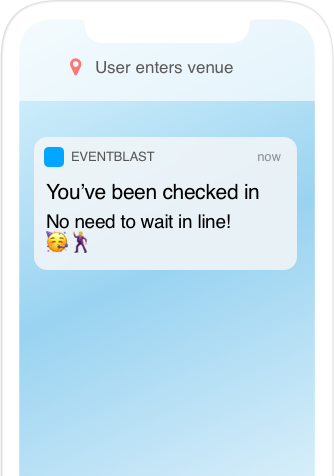
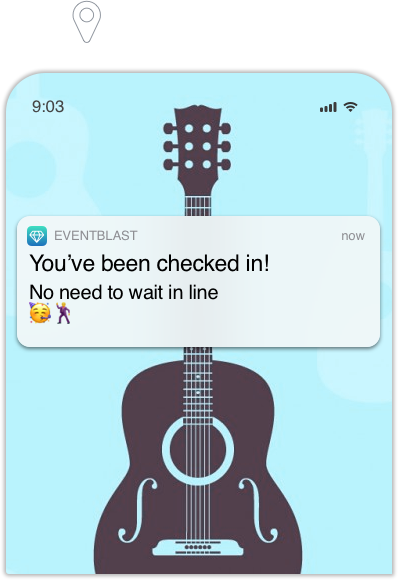
Switched up images in geofencing section and added "integrations"

diff --git a/index.html b/index.html
@@ -4,7 +4,7 @@
 <head>
   <meta charset="utf-8">
   <meta name="viewport" content="width=device-width, initial-scale=1, shrink-to-fit=no">
-  
+
   <!-- Primary Meta Tags -->
   <title>SpotSense - Geofencing for iOS</title>
   <meta name="title" content="SpotSense - Geofencing for iOS">
@@ -124,7 +124,7 @@
         <div class="container shape-container d-flex align-items-center" style="padding-top: 20px">
           <div class="row justify-content-between align-items-center">
             <div class="col-lg-5 mb-5 mb-lg-0">
-              <h1 class="text-white">Make places part of your app experience</h1>
+              <h1 class="text-white">Add powerful geofences to your mobile app, quickly</h1>
               <p class="lead text-white mt-4">
                   SpotSense helps you leverage location context to build a more personalized app user experience.<br><br>
                   The best part? It takes less than 5 minutes.
@@ -151,8 +151,8 @@
       <div class="container">
         <div style="margin-bottom: 30px;" class="row text-left">
           <div class="col-md-8">
-            <!-- <h1 class="mb-2 text-left">Create 🔥 app experiences through location context</h1> -->
-            <h1 class="mb-3 text-left">Does your mobile app fit into the everyday life of your users?</h1>
+
+            <h1 class="mb-3 text-left">Interact with your users, even if you're not on their front page</h1>
             <h5 class="mb-4 text-left text-muted">Your mobile app can easily get lost in the sea of applications on a user's device. Cut through that noise by providing your users with contextually driven experiences based on their location. </h5>
           </div>
           <div class="col-md-4">
@@ -165,7 +165,7 @@
     <!-- Geofencing tools that... -->
     <section class="section pb-0 gradient-bg">
       <div class="container">
-        <h1 class="text-left text-white">Geofencing tools that drive engagement </h1>
+        <h1 class="text-left text-white">Drive app engagement with location awareness</h1>
         <div class="row">
           <div class="col-md-8 col-12">
             <p class="lead mb-0 text-left text-white">Use location to send contextual push notifications, build relevant in-app experiences, power automatic check in, and more</p>
@@ -275,10 +275,10 @@
     <!-- Location Analytics -->
     <section class="section">
         <div class="container">
-          <h1 class="text-left">Location analytics for data driven decisions</h1>
+          <h1 class="text-left">Create location interactions, with confidence</h1>
           <div class="row">
-            <div class="col-sm-8">
-              <h5 class="mb-4 text-left text-muted">Discover valuable insights and answer important questions on how your users interact with real world places</h5>
+            <div class="col-sm-10">
+              <h5 class="mb-4 text-left text-muted">Discover valuable insights and answer important questions on how your users interact with real world places through the SpotSense Dashboard. Build unique features without constantly updating code.</h5>
             </div>
           </div>
 
@@ -378,8 +378,62 @@
               </li>
             </ul>
           </div>
+          </section>
 
+          <section class="section bg-secondary">
+            <div class="container">
+                <h1 class="text-left">Integrate SpotSense into services you already use</h1>
+                <div class="row">
+                  <div class="col-md-8 col-12">
+                    <h5 class="mb-4 text-left text-muted">Custom geofences allow you to easily send location events to the platforms you're currently using in your mobile app</h5>
+                  </div>
+                </div>
+
+                <!-- desktop version -->
+                <div id="integrations" class="desktop-only">
+                  <div class="row titles">
+                    <div class="col-4">
+                      <img style="max-width: 100%" src="./assets/img/misc/Mixpanel_info.png">
+                    </div>
+                    <div class="col-4">
+                      <img style="max-width: 100%" src="./assets/img/misc/Firebase_info.png">
+                    </div>
+                    <div class="col-4">
+                      <img style="max-width: 100%" src="./assets/img/misc/Zapier_info.png">
+                    </div>
+                  </div>
+                  <div class="col-md-12 col-12">
+                    <h6 class="mb-2 mt-4 text-center text-info">Learn about custom geofences</h6>
+                  </div>
+
+
+                <!-- mobile version -->
+                <div class="mobile-only">
+                      <div class="row">
+                        <div class="col">
+                            <div class="titles">
+                              <img style="max-width: 100%" src="./assets/img/misc/Mixpanel_info.png">
+                            </div>
+                        </div>
+                      </div>
+                      <div class="row">
+                        <div class="col">
+                          <div class="titles">
+                            <img style="max-width: 100%" src="./assets/img/misc/Firebase_info.png">
+                          </div>
+                        </div>
+                      </div>
+                      <div class="row">
+                        <div class="col">
+                            <div class="titles">
+                              <img style="max-width: 100%" src="./assets/img/misc/Zapier_info.png">
+                            </div>
+                        </div>
+                      </div>
+
+                </div>
       </section>
+
       <section class="section" id="get-started-analytics">
         <div class="container">
           <div class="row">
